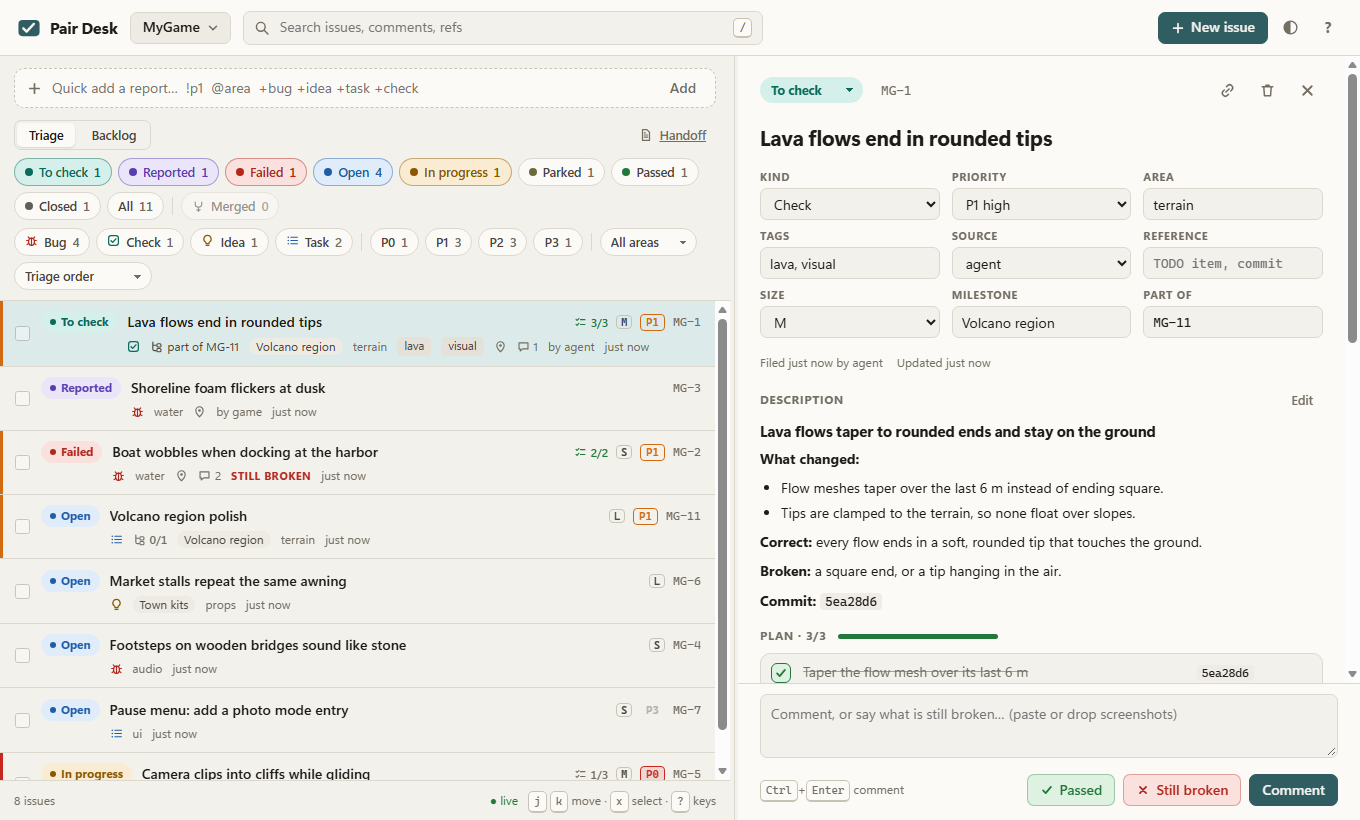
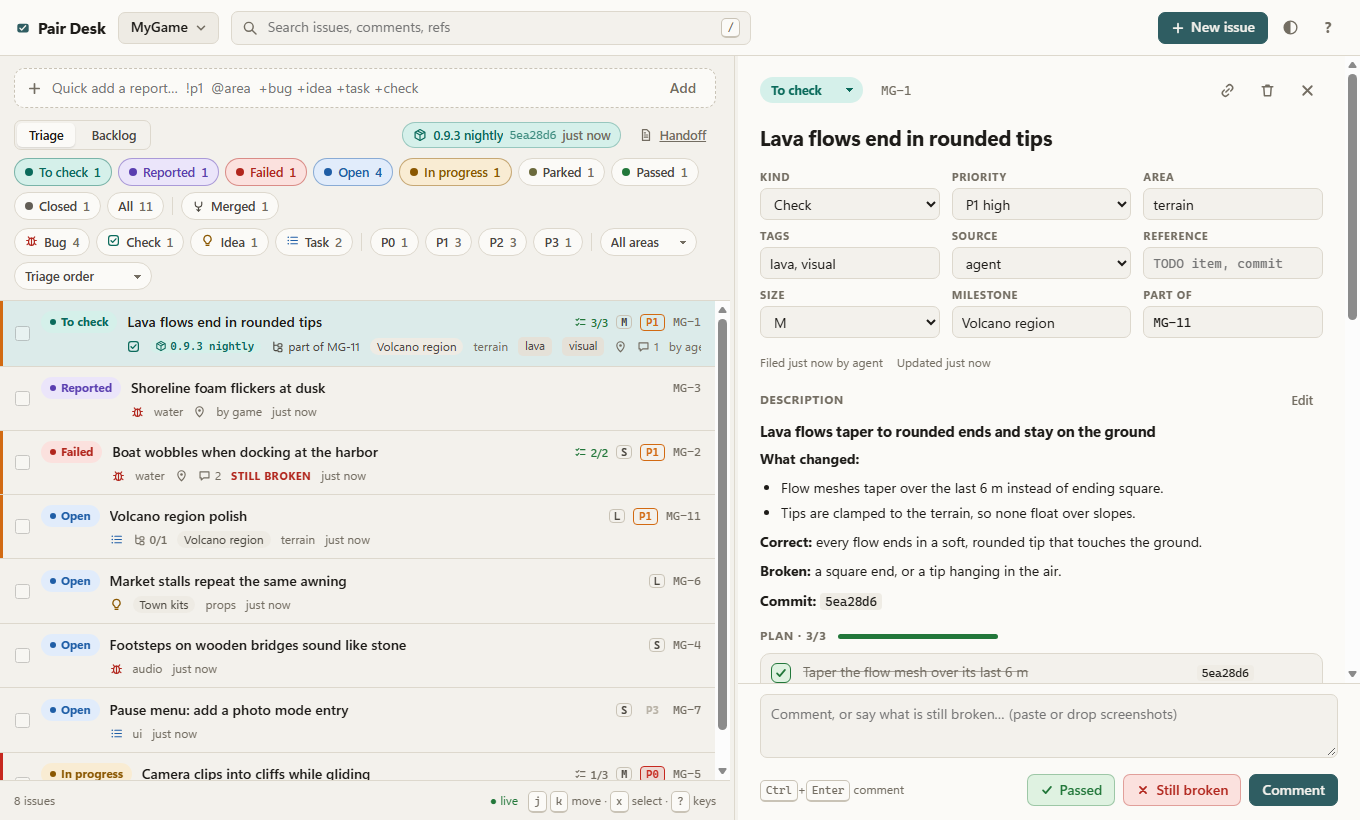
Web UI: the current build in the filter bar, a build chip on waiting checks, the build on the issue
The filter bar names the project's current build (click copies its path; a warning when builds
are used but none is current). To-check rows carry a small build chip, and the issue shows the
build it was handed over in with its commit and a Copy path button, above the location. The
timeline shows "published build X (was Y)" and "moved to To check in build X". The browser check
covers it live, and the demo desk publishes a build.

Claude-Session: https://claude.ai/code/session_016phLij2zPR45Y3a5zPdnA3

diff --git a/web/app.js b/web/app.js
@@ -52,6 +52,7 @@ const ICON = {
   down: '<svg viewBox="0 0 16 16" aria-hidden="true"><path d="M4 6l4 4 4-4" fill="none" stroke="currentColor" stroke-width="1.7" stroke-linecap="round" stroke-linejoin="round"/></svg>',
   plus: '<svg viewBox="0 0 16 16" aria-hidden="true"><path d="M8 3v10M3 8h10" stroke="currentColor" stroke-width="1.7" stroke-linecap="round"/></svg>',
   doc: '<svg viewBox="0 0 16 16" aria-hidden="true"><path d="M4 1.8h5l3 3v9.4H4z" fill="none" stroke="currentColor" stroke-width="1.4" stroke-linejoin="round"/><path d="M6 8h4M6 10.5h4M6 5.5h1.5" stroke="currentColor" stroke-width="1.3" stroke-linecap="round"/></svg>',
+  build: '<svg viewBox="0 0 16 16" aria-hidden="true"><path d="M8 1.8l5.6 3.1v6.2L8 14.2l-5.6-3.1V4.9z" fill="none" stroke="currentColor" stroke-width="1.4" stroke-linejoin="round"/><path d="M2.6 4.9L8 7.9l5.4-3M8 7.9v6.3M5.2 3.3l5.5 3.1" fill="none" stroke="currentColor" stroke-width="1.3" stroke-linejoin="round"/></svg>',
   link: '<svg viewBox="0 0 16 16" aria-hidden="true"><path d="M6.5 9.5l3-3M7 4.5l1-1a2.8 2.8 0 0 1 4 4l-1 1M9 11.5l-1 1a2.8 2.8 0 0 1-4-4l1-1" fill="none" stroke="currentColor" stroke-width="1.4" stroke-linecap="round"/></svg>',
 };
 
@@ -182,6 +183,41 @@ const gameCommand = (loc, n = 0) => gameCommands(loc)[n]?.command || "";
 
 /** The newest command sent to the game with exactly this text (the issue's `commands` queue, newest first). */
 const sentFor = (issue, command) => (issue?.commands || []).find((c) => c.command === command);
+
+/** A build's short name (its label; the desk always gives one) and its hover text: path, commit, build time. */
+const buildName = (b) => b?.label || b?.path || "";
+const buildTitle = (b) => [b.path, b.commit ? `commit ${b.commit}` : "", b.built_at ? `built ${fullTime(b.built_at)}` : ""].filter(Boolean).join("\n");
+
+/** The project's current build in the filter bar: click copies its path. Nothing for a project that never
+ *  published one; a warning when builds are used but none is current (agents cannot hand issues over). */
+function currentBuildHtml() {
+  const p = S.project;
+  if (!p?.builds_enabled) return "";
+  const b = p.build;
+  if (!b) return `<span class="build-current none" title="No current build: agents cannot move issues to To check until the next build is published">${ICON.build}<span>No current build</span></span>`;
+  return `<button type="button" class="build-current" data-copy-build="${esc(b.path)}" title="Current build, click to copy its path&#10;${esc(buildTitle(b))}">
+    ${ICON.build}<span class="build-name">${esc(buildName(b))}</span>${b.commit && b.commit !== b.label ? `<code>${esc(b.commit.slice(0, 10))}</code>` : ""}<span class="build-ago">${ago(b.built_at)}</span></button>`;
+}
+
+/** The build an issue was handed over in, with its path to copy. */
+function buildHtml(i) {
+  const b = i.build;
+  if (!b) return "";
+  const current = S.project?.build;
+  const older = current && current.number !== b.number;
+  return `<section class="section">
+    <div class="section-head"><h2>Build</h2></div>
+    <div class="card build-card">
+      <div class="build-head">${ICON.build}<strong class="build-name">${esc(buildName(b))}</strong>
+        ${b.commit && b.commit !== b.label ? `<code class="build-commit" title="Commit">${esc(b.commit)}</code>` : ""}
+        <span class="muted" title="${esc(fullTime(b.built_at))}">built ${ago(b.built_at)}</span>
+        ${older ? `<span class="build-older" title="The current build is ${esc(buildName(current))}">not the current build</span>` : ""}
+        ${b.path === b.label ? `<button class="btn btn-sm" data-act="copy-build" title="Copy">${ICON.copy}Copy</button>` : ""}</div>
+      ${b.path !== b.label ? `<div class="build-path-row"><div class="cmd-box"><code>${esc(b.path)}</code></div>
+        <button class="btn btn-sm" data-act="copy-build" title="Copy the path">${ICON.copy}Copy path</button></div>` : ""}
+    </div>
+  </section>`;
+}
 
 async function copyText(text, label = "Copied") {
   try {
@@ -500,6 +536,7 @@ function renderFilters() {
         <button type="button" role="tab" data-view="backlog" aria-selected="${backlog}" class="${backlog ? "on" : ""}" title="Backlog (b)">Backlog</button>
       </div>
       <span class="row-spacer"></span>
+      ${currentBuildHtml()}
       <a class="btn btn-sm btn-quiet" href="#/${esc(S.slug)}/${HANDOFF}" title="Project handoff (h)">${ICON.doc}Handoff</a>
     </div>
     ${backlog ? `<div class="backlog-hint">Open and in-progress work by priority, then size, then area. ${sc.parked ? `<button type="button" class="linkish" data-parked="1">${sc.parked} parked</button>` : ""}</div>` : `<div class="chip-row" role="group" aria-label="Status">
@@ -549,6 +586,7 @@ function rowHtml(i, idx, fresh) {
     <span class="row-right">${progressBadge(i.plan_progress, ICON.plan, "Plan steps done", " plan-badge")}${i.size ? `<span class="size-badge" title="Size">${esc(i.size)}</span>` : ""}${i.priority === "p2" ? "" : `<span class="prio prio-${i.priority}">${i.priority.toUpperCase()}</span>`}<span class="row-id">${esc(i.id)}</span></span>
     <div class="row-meta">
       <span class="kind-icon kind-${i.kind}" title="${KIND_LABEL[i.kind]}">${ICON[i.kind]}</span>
+      ${i.status === "to_check" && i.build ? `<span class="build-chip" title="In build ${esc(buildName(i.build))}&#10;${esc(buildTitle(i.build))}">${ICON.build}${esc(buildName(i.build))}</span>` : ""}
       ${i.merged_into ? `<span class="merged-link" title="Merged">${ICON.merge}into ${esc(i.merged_into)}</span>` : ""}
       ${i.parent ? `<span class="part-of" title="Part of">${ICON.tree}part of ${esc(i.parent)}</span>` : ""}
       ${progressBadge(children, ICON.tree, "Children done")}
@@ -790,8 +828,9 @@ function timelineHtml(issue) {
     const d = a.detail || {};
     let text;
     switch (a.action) {
-      case "created": text = `<strong>${esc(a.actor)}</strong> filed this as <span class="pill s-${esc(d.status)}">${STATUS_LABEL[d.status] || esc(d.status)}</span>`; break;
-      case "status": text = `<strong>${esc(a.actor)}</strong> moved it from <span class="pill s-${esc(d.from)}">${STATUS_LABEL[d.from] || esc(d.from)}</span> to <span class="pill s-${esc(d.to)}">${STATUS_LABEL[d.to] || esc(d.to)}</span>`; break;
+      case "created": text = `<strong>${esc(a.actor)}</strong> filed this as <span class="pill s-${esc(d.status)}">${STATUS_LABEL[d.status] || esc(d.status)}</span>${inBuild(d.build)}`; break;
+      case "status": text = `<strong>${esc(a.actor)}</strong> moved it from <span class="pill s-${esc(d.from)}">${STATUS_LABEL[d.from] || esc(d.from)}</span> to <span class="pill s-${esc(d.to)}">${STATUS_LABEL[d.to] || esc(d.to)}</span>${inBuild(d.build)}`; break;
+      case "build": text = `<strong>${esc(a.actor)}</strong> published build <span class="build-ref">${ICON.build}${esc(d.label)}</span>${d.previous ? ` <span class="muted">(was ${esc(d.previous)})</span>` : ""}`; break;
       case "edited": text = `<strong>${esc(a.actor)}</strong> edited ${esc((d.fields || []).join(", "))}`; break;
       case "attached": text = `<strong>${esc(a.actor)}</strong> attached ${esc(d.filename)}`; break;
       case "detached": text = `<strong>${esc(a.actor)}</strong> removed ${esc(d.filename)}`; break;
@@ -814,6 +853,7 @@ function timelineHtml(issue) {
   }).join("");
 }
 
+const inBuild = (label) => (label ? ` in build <span class="build-ref">${ICON.build}${esc(label)}</span>` : "");
 const issueLink = (key) => (key ? `<a class="issue-ref" href="#/${esc(S.slug)}/${esc(key)}">${esc(key)}</a>` : "?");
 
 function mergedCardHtml(a, fresh) {
@@ -981,6 +1021,8 @@ function detailHtml(i) {
 
     ${groupHtml(i)}
 
+    ${buildHtml(i)}
+
     <section class="section">
       <div class="section-head"><h2>Location</h2>${editing === "location" ? "" : `<button class="btn btn-quiet btn-sm" data-act="edit-location">${hasLoc ? "Edit" : "Add"}</button>`}</div>
       ${location}
@@ -1048,8 +1090,11 @@ async function refreshAll() {
 async function refreshProject() {
   if (!S.slug) return;
   try {
+    const before = JSON.stringify(S.project?.build ?? null) + S.project?.builds_enabled;
     S.project = await api("GET", `/api/projects/${encodeURIComponent(S.slug)}`);
     S.lastChange = S.project.last_change;
+    // A new build: the filter bar shows it (the stamped issues refresh through their own activity).
+    if (JSON.stringify(S.project.build ?? null) + S.project.builds_enabled !== before && S.list) renderFilters();
     if (!S.openId) renderEmptyDetail();
   } catch (e) { /* the poller reports connection problems */ }
 }
@@ -1671,6 +1716,8 @@ function bindEvents() {
     const v = e.target.closest("[data-view]");
     if (v) { setView(v.dataset.view); return; }
     if (e.target.closest("[data-parked]")) { setView("list"); setFilter((f) => { f.status = ["parked"]; }); return; }
+    const cb = e.target.closest("[data-copy-build]");
+    if (cb) { copyText(cb.dataset.copyBuild, "Build path copied"); return; }
     const c = e.target.closest(".chip");
     if (!c) return;
     const { group, value } = c.dataset;
@@ -1778,6 +1825,7 @@ function bindEvents() {
         break;
       case "copy-id": copyText(i.id, `Copied ${i.id}`); break;
       case "copy-link": copyText(`${location.origin}/#/${S.slug}/${i.id}`, "Link copied"); break;
+      case "copy-build": copyText(i.build.path, i.build.path === i.build.label ? "Build copied" : "Build path copied"); break;
       case "copy-cmd": copyText(gameCommand(i.location, +(e.target.closest("[data-n]")?.dataset.n || 0)), "Command copied"); break;
       case "send-cmd": sendToGame(+(e.target.closest("[data-n]")?.dataset.n || 0)); break;
       case "cmd-add": readCommandEditor(); S.locDraft.push({ command: "", label: "" }); renderCommandEditor(S.locDraft.length - 1); break;

diff --git a/web/app.css b/web/app.css
@@ -655,3 +655,40 @@ body[data-live="sse"] .live-state { color: var(--st-passed); }
   .row-check { opacity: 1; }
   .step-note-btn { opacity: 1; }
 }
+
+/* ------------------------------------------------------------------ builds
+   The project's current build sits in the filter bar, a chip marks the build a waiting check is in, and the
+   issue shows the build it was handed over in. Teal like To check: a build is what the owner checks in. */
+.build-current {
+  display: inline-flex; align-items: center; gap: 6px; height: 26px; padding: 0 10px; border-radius: 999px; min-width: 0;
+  max-width: min(46%, 340px); border: 1px solid color-mix(in srgb, var(--st-to_check) 30%, transparent);
+  background: var(--st-to_check-bg); color: var(--st-to_check); font-size: 12.5px; font-weight: 600; cursor: pointer;
+  transition: border-color .12s;
+}
+button.build-current:hover { border-color: color-mix(in srgb, var(--st-to_check) 65%, transparent); }
+.build-current svg { width: 14px; height: 14px; }
+.build-current .build-name { overflow: hidden; text-overflow: ellipsis; white-space: nowrap; min-width: 0; }
+.build-current code { font: 11.5px var(--mono); opacity: .75; flex: none; }
+.build-current .build-ago { color: var(--muted); font-weight: 500; white-space: nowrap; flex: none; }
+.build-current.none { cursor: default; background: var(--st-failed-bg); color: var(--st-failed);
+  border-color: color-mix(in srgb, var(--st-failed) 30%, transparent); }
+.row-meta > .build-chip {
+  gap: 3px; padding: 0 7px 0 5px; border-radius: 999px; background: var(--st-to_check-bg); color: var(--st-to_check);
+  font: 600 11px var(--mono); max-width: 16em; overflow: hidden; text-overflow: ellipsis; flex: none;
+}
+.row-meta > .build-chip svg { width: 12px; height: 12px; }
+.build-card { display: flex; flex-direction: column; gap: 8px; }
+.build-head { display: flex; align-items: center; gap: 8px; flex-wrap: wrap; min-width: 0; font-size: 13px; }
+.build-head svg { width: 16px; height: 16px; color: var(--st-to_check); }
+.build-head .build-name { font-weight: 650; word-break: break-word; }
+.build-head .btn { margin-left: auto; }
+.build-commit { font: 12px var(--mono); padding: 1px 6px; border-radius: 5px; background: var(--code-bg); border: 1px solid var(--line); color: var(--text-2); }
+.build-older { font-size: 11.5px; font-weight: 650; padding: 1px 7px; border-radius: 999px; background: var(--st-in_progress-bg); color: var(--st-in_progress); }
+.build-path-row { display: flex; gap: 6px; align-items: center; min-width: 0; }
+.build-path-row .cmd-box { flex: 1; min-width: 0; }
+.build-ref { display: inline-flex; align-items: center; gap: 3px; font-weight: 650; color: var(--st-to_check); }
+.build-ref svg { width: 13px; height: 13px; }
+@media (max-width: 860px) {
+  .build-current { max-width: 60%; }
+  .build-current .build-ago { display: none; }
+}

diff --git a/scripts/demo-desk.py b/scripts/demo-desk.py
@@ -116,6 +116,9 @@ def main() -> int:
     with Store(data) as store:
         store.create_project("mygame", "MyGame", "MG")
         store.create_project("puzzle-demo", "Puzzle Demo", "PZ")
+        # The build the owner plays: checks handed over below are stamped with it.
+        store.set_build("mygame", "builds/MyGame-0.9.3/MyGame.exe", commit="5ea28d6", label="0.9.3 nightly",
+                        actor="claude")
         ids = []
         for title, fields, steps, verification, comments in ISSUES:
             status = fields.pop("status")
